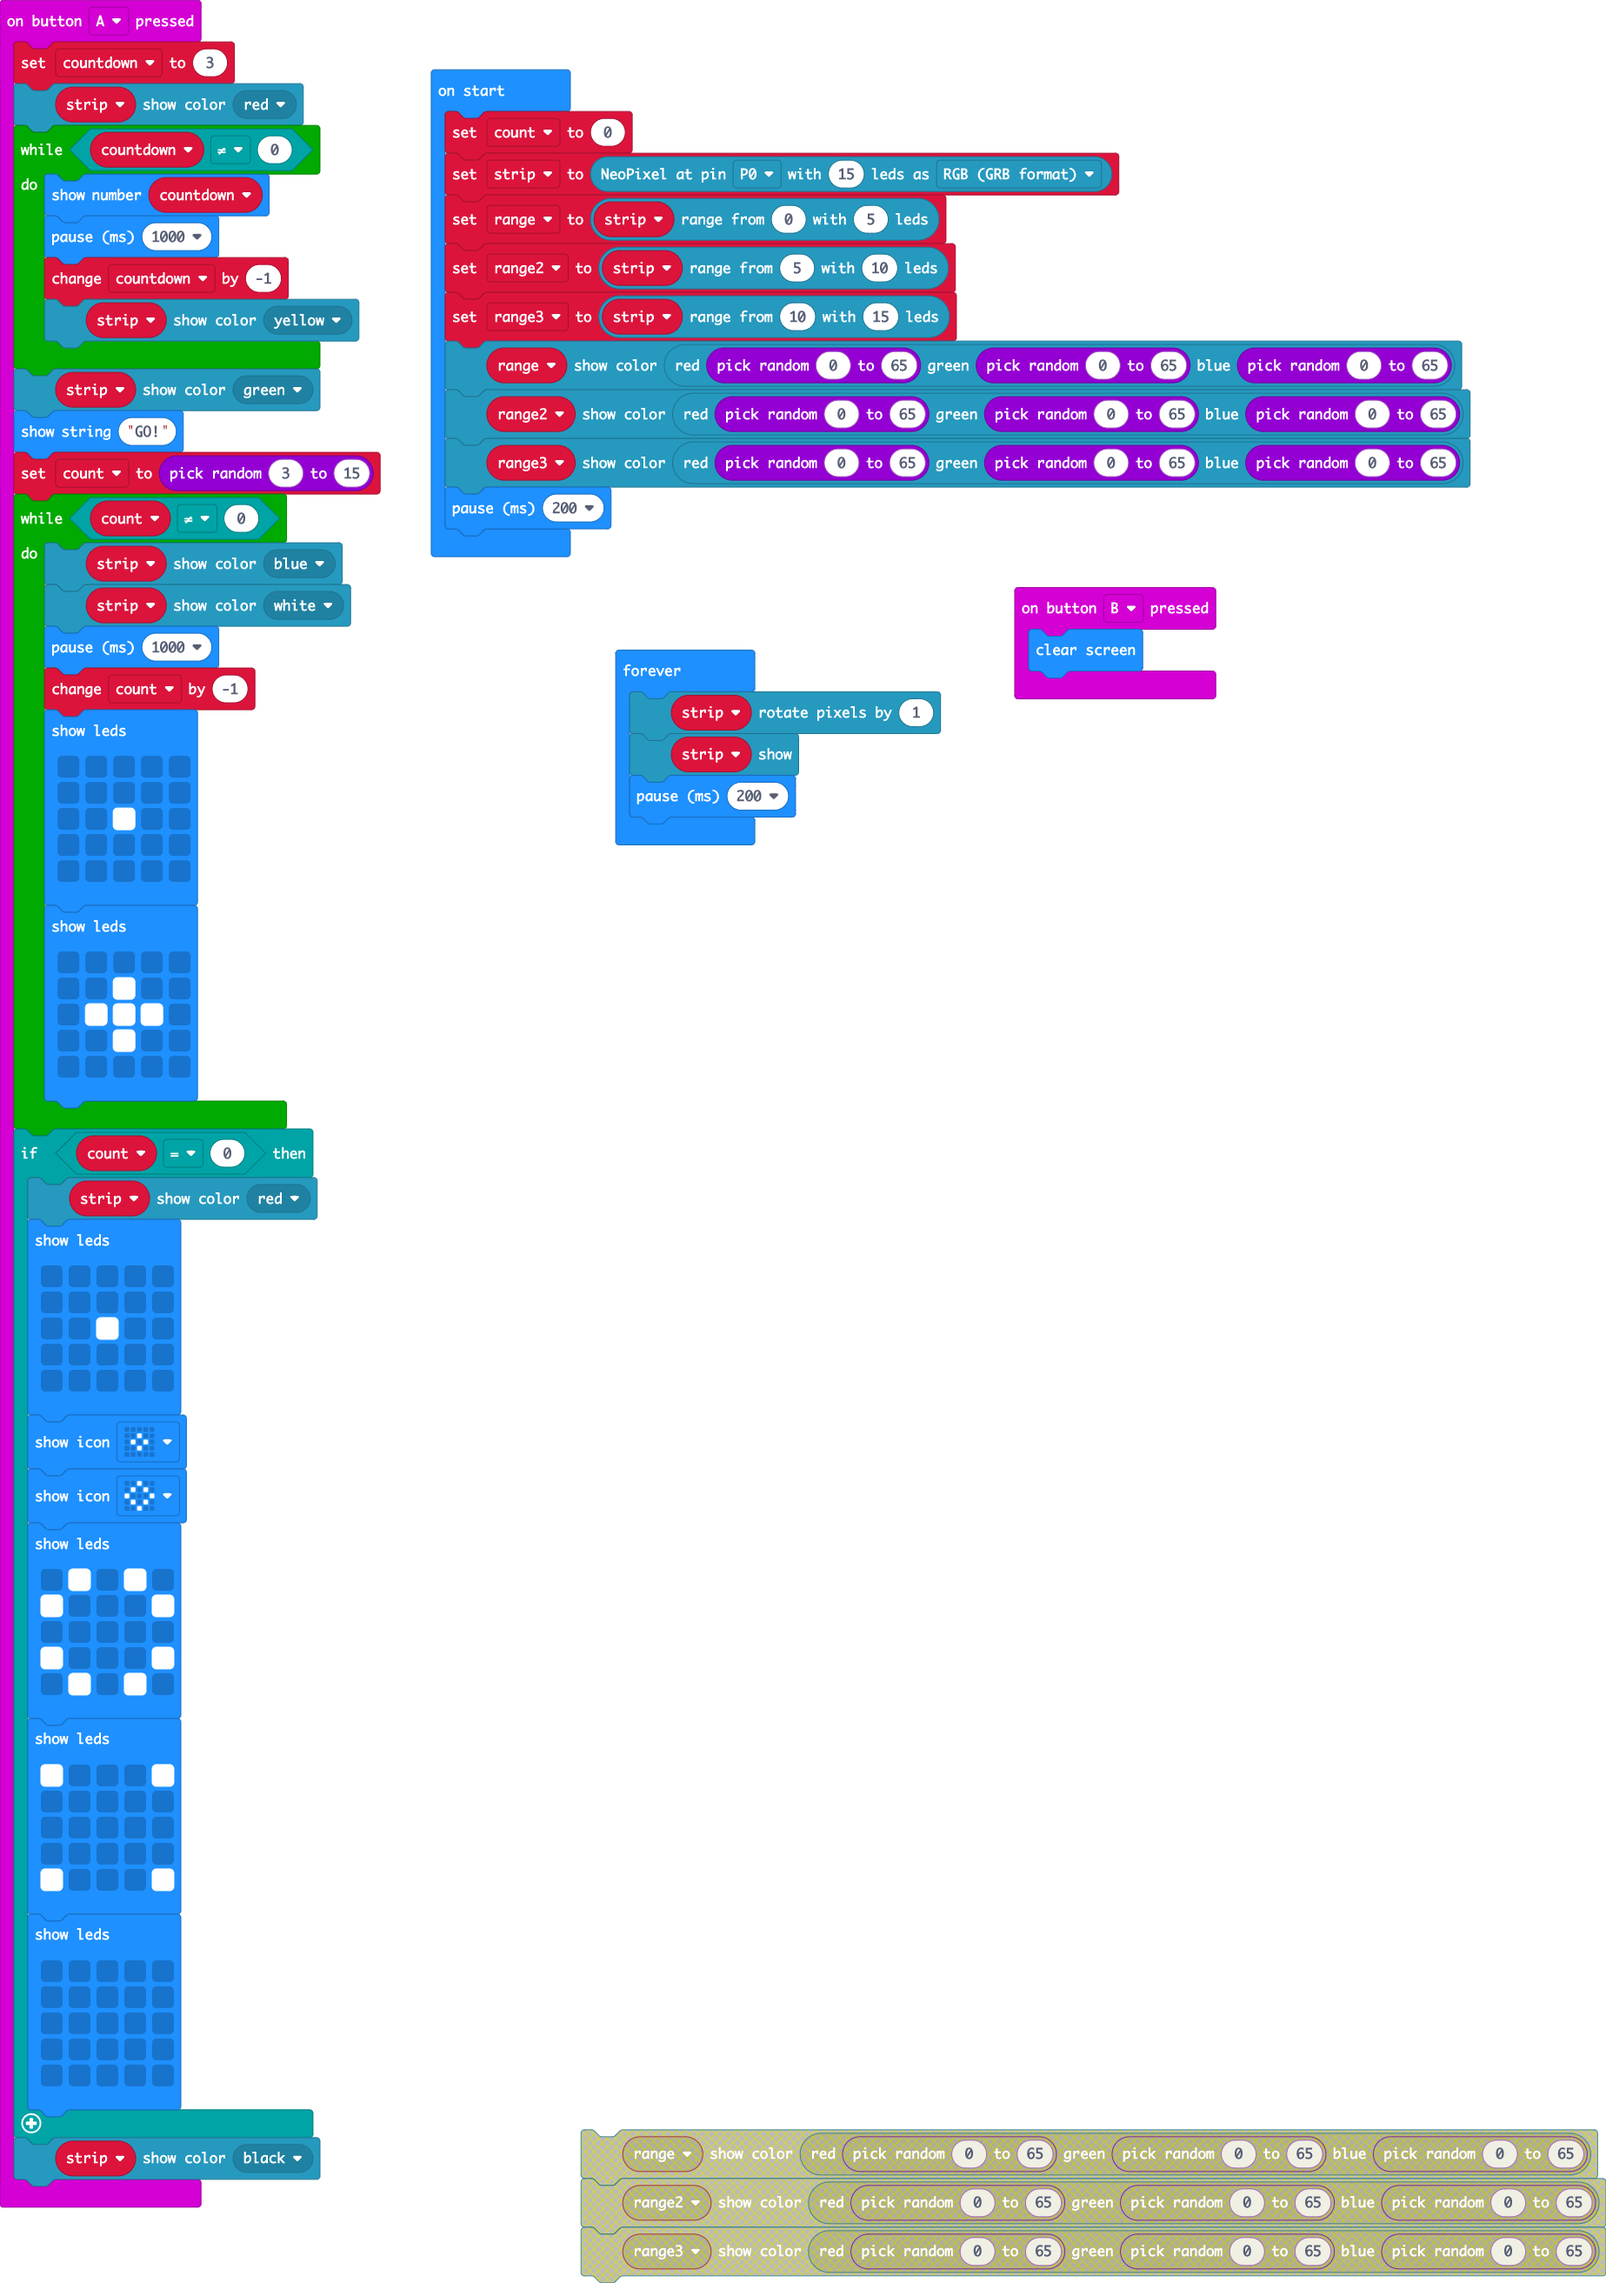
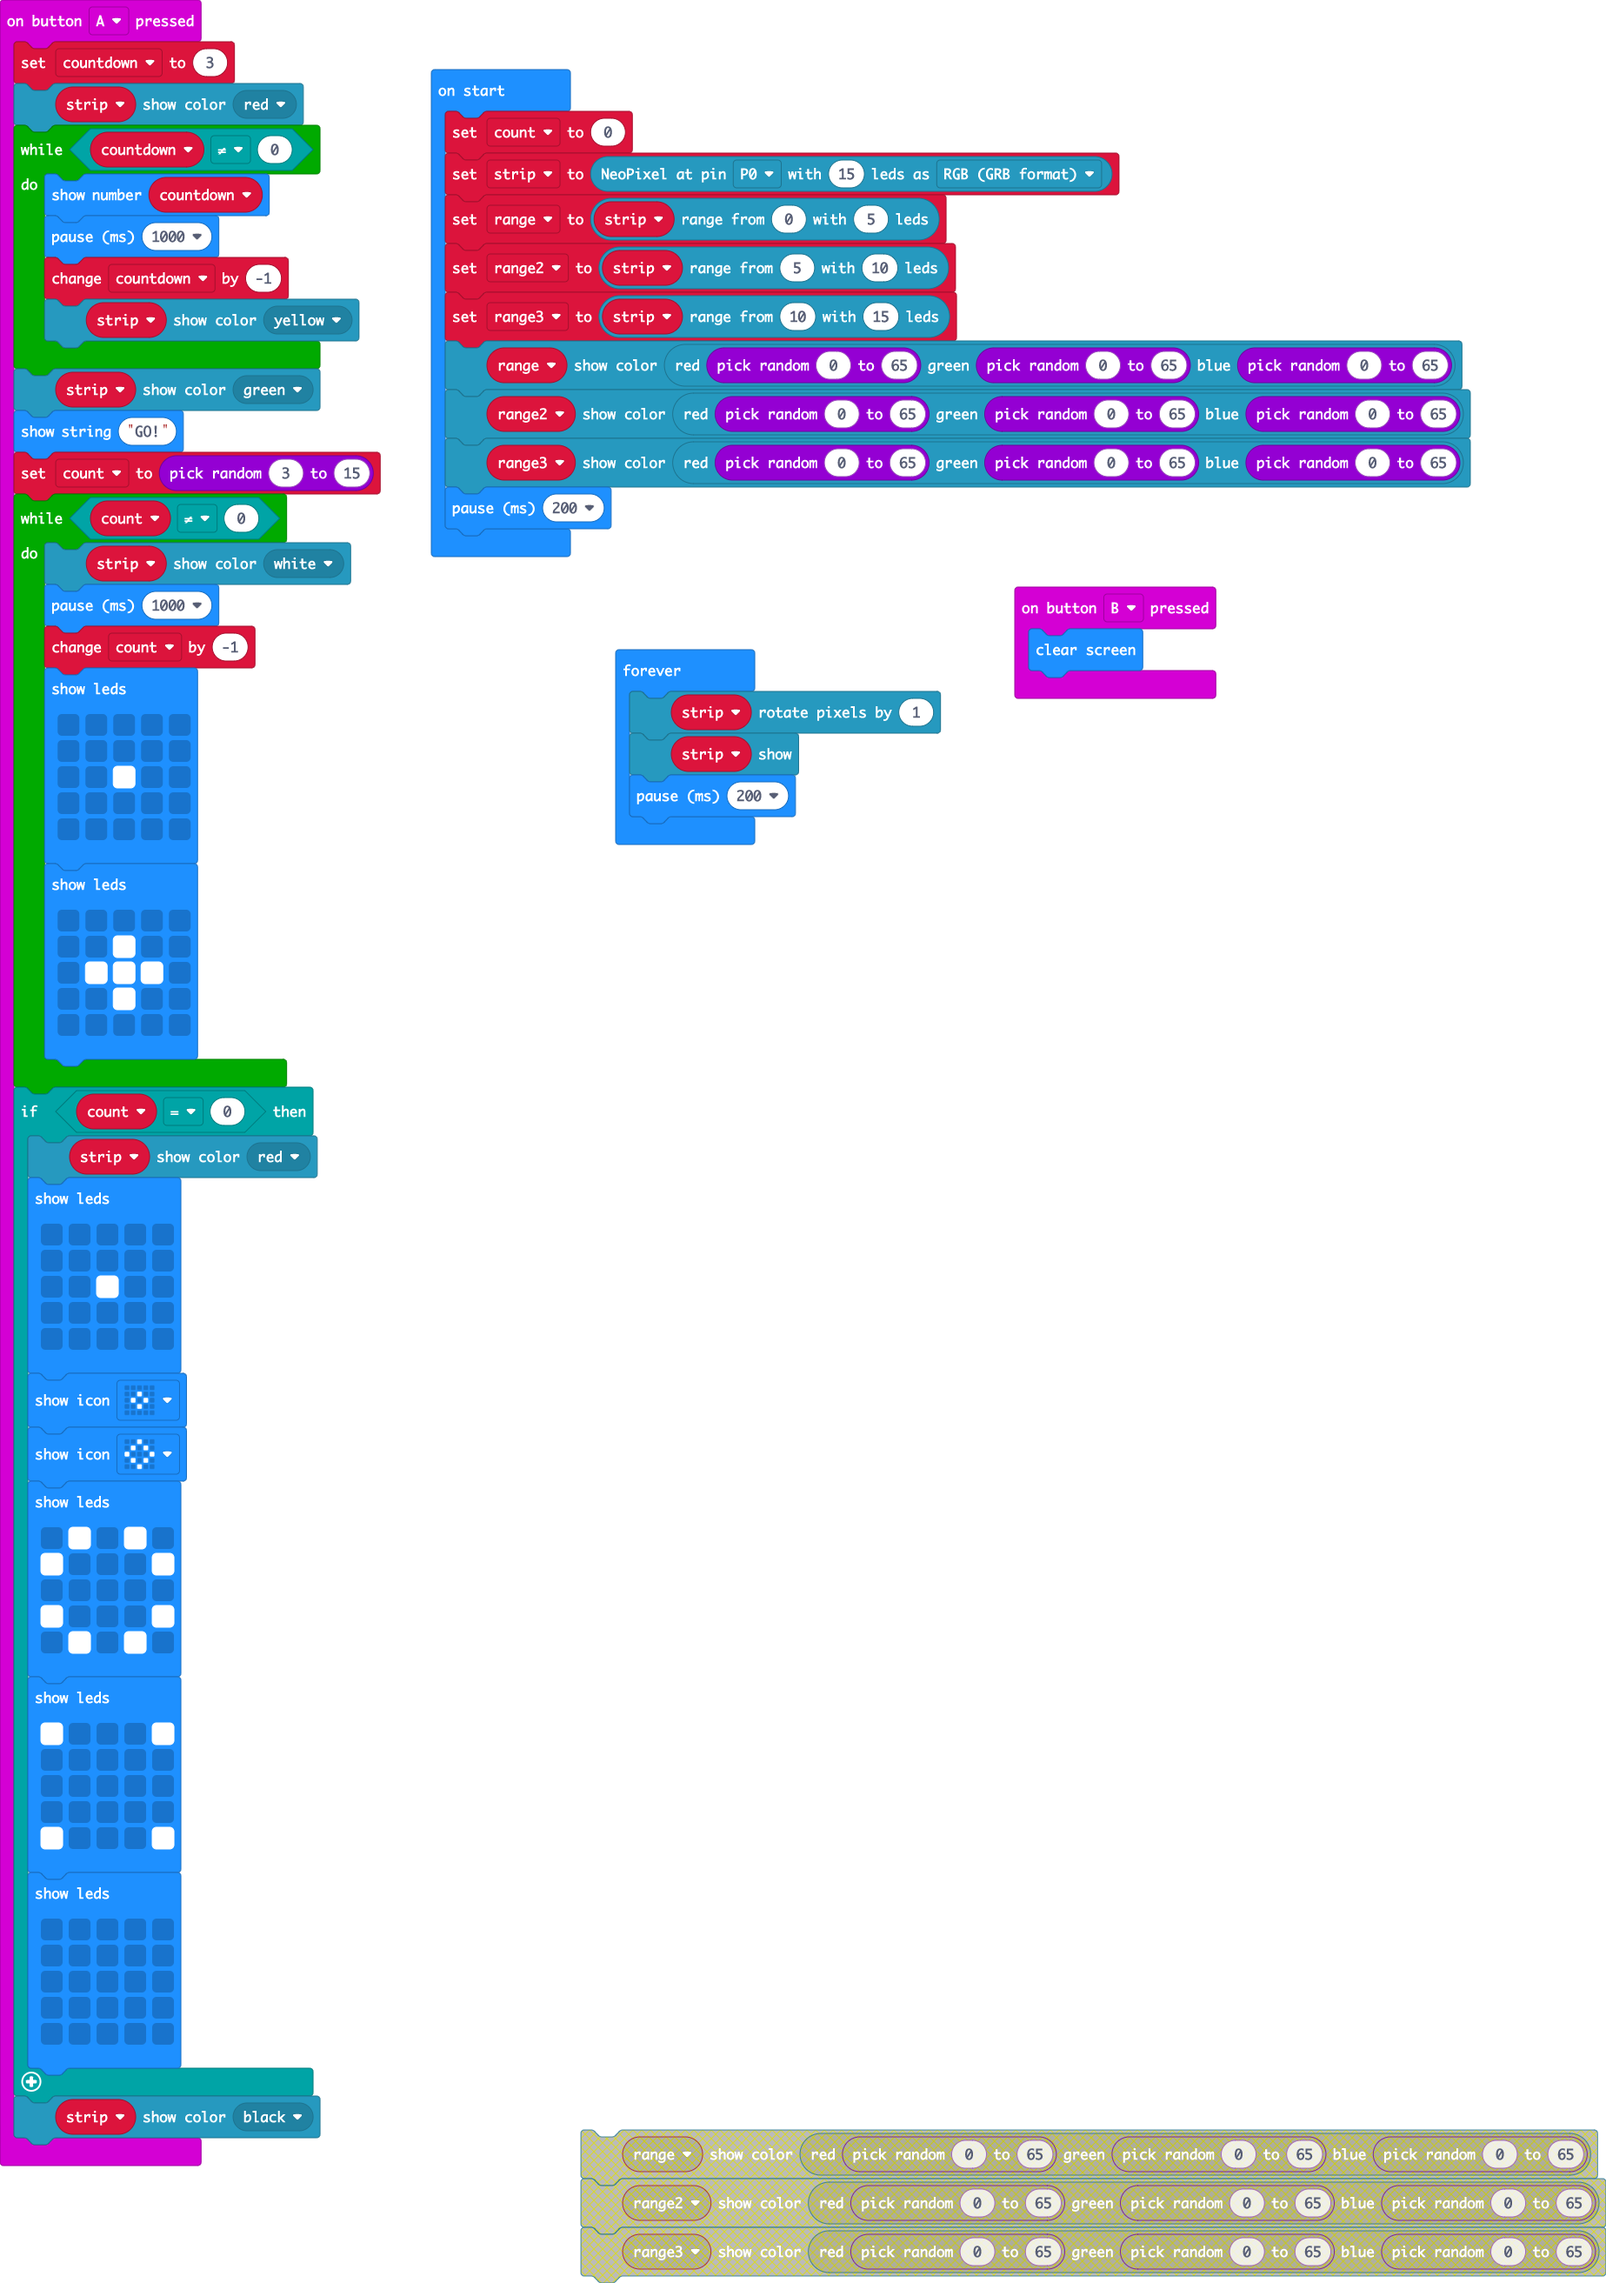
Update main.blocks, main.ts

diff --git a/main.ts b/main.ts
@@ -11,7 +11,6 @@ input.onButtonPressed(Button.A, function () {
     basic.showString("GO!")
     count = randint(3, 15)
     while (count != 0) {
-        strip.showColor(neopixel.colors(NeoPixelColors.Blue))
         strip.showColor(neopixel.colors(NeoPixelColors.White))
         basic.pause(1000)
         count += -1
